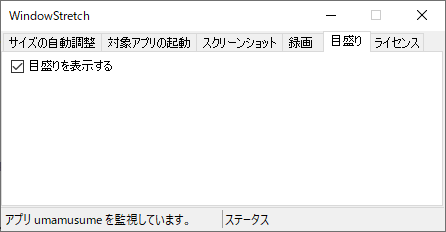
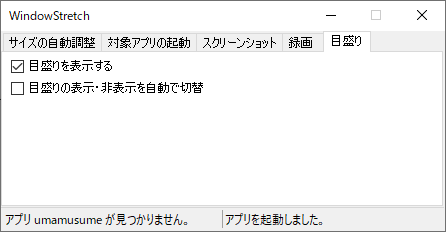
READMEを修正。

diff --git a/README.md b/README.md
@@ -1,10 +1,22 @@
 # WindowStretch
-ゲーム画面のウィンドウサイズを、縦横比を維持しつつ最大化します。現在はDMM版「ウマ娘 プリティーダービー」用。
-プロジェクトサイトは[こちら](https://github.com/seeker3600/WindowStretch)
+ゲーム画面のウィンドウサイズ調整等を行います。現在はDMM版「ウマ娘 プリティーダービー」用。
+
+![size](img/size.png)
+
+## このツールにできること
+
+* ゲーム画面のウィンドウサイズを、縦横比を維持しつつ最大化します。縦長・横長の両方に対応します。
+    * サイズ指定は必要ありません。モニターに対して適切な位置・サイズを自動的に計算します。
+* ツールの起動と同時にゲームを起動できます。
+* ゲーム画面のスクリーンショットを撮影できます。
+    * スクロールする画面の全体を1枚の画像に撮影することもできます。
+* ゲーム画面を録画できます。
+* 育成画面の体力ゲージに目盛りを表示できます。
+	![scale_enabled](img/scale_enabled.png)
 
 ## インストール
 
-[こちら](https://github.com/seeker3600/WindowStretch/releases/latest/download/WindowStretch.zip) から最新版をダウンロードし、zipファイルを解凍してください。
+[こちら](https://github.com/seeker3600/WindowStretch/releases/download/v0.8.0/WindowStretch.zip) から最新版をダウンロードし、zipファイルを解凍してください。
 
 * Windows8.1、または 10 の古いバージョンをご利用の方は、 [.net framework 4.8](https://dotnet.microsoft.com/download/dotnet-framework/thank-you/net48-web-installer) をインストールする必要があります。
 * Windows 10 April 2018 Update (1803) より前のバージョンをご利用の場合、録画機能は使用できません。
@@ -61,20 +73,22 @@
 
 ![scale](img/scale.png)
 
-* チェックを入れると、育成の体力ゲージの位置に目盛りを表示します。
+* 「目盛りを表示する」にチェックを入れると、育成の体力ゲージの位置に目盛りを表示します。
 * ゲームで何をしているかに関係なく「表示するだけ」なので注意してください。
 	![scale_enabled](img/scale_enabled.png)
-
+* 「目盛りの表示・非表示を自動で切替」にチェックを入れると、育成画面以外では目盛りを非表示にします。
+	* アオハル、メイクラにて動作を確認しています。
 
 ## 対応環境
 
-Windows 10 Pro バージョン 2004 (x64) で動作を確認しています。
-それ以外の環境で動く／動かない場合はご連絡ください。
+以下の環境で動作を確認しています。それ以外の環境で動く／動かない場合はご連絡ください。
+
+* Windows 10 Pro バージョン 21H1 (x64) 
+* Windows 11 Home バージョン 21H2 (x64) 
 
 ## TODO
 
 * フルスクリーン時は省電力機能を無効化
-* ゲージ表示の自動化
 * マルチモニター
 * ファン数計測
 * 録画周りの改善
@@ -85,32 +99,7 @@ Windows 10 Pro バージョン 2004 (x64) で動作を確認しています。
 
 ## 連絡
 イシューやプルリク、 @seeker7200 (twitter) へどうぞ。
+プロジェクトサイトは[こちら](https://github.com/seeker3600/WindowStretch)です。
 
 ## ライセンス
 MIT
-
-### 依存ソフトウェア
-
-* .NET Runtime
-    The MIT License (MIT)  Copyright (c) .NET Foundation and Contributors
-    ライセンス全文 - https://github.com/dotnet/runtime/blob/main/LICENSE.TXT
-
-* Microsoft.Windows.CsWin32
-    The MIT License (MIT)  Copyright (c) Microsoft Corporation
-    ライセンス全文 - https://github.com/microsoft/CsWin32/blob/main/LICENSE
-
-    本ツール用の改変を行っています。内容は以下を参照してください。
-    https://github.com/seeker3600/CsWin32
-
-* ReactiveProperty
-    The MIT License (MIT)  Copyright (c) 2018 neuecc, xin9le, okazuki
-    ライセンス全文 - https://github.com/runceel/ReactiveProperty/blob/main/LICENSE.txt
-
-* ScreenRecorderLib
-    MIT License  Copyright (c) 2017 Sverre Skodje
-    ライセンス全文 - https://github.com/sskodje/ScreenRecorderLib/blob/master/LICENSE
-
-* AudioSwitcher
-    Microsoft Public License (Ms-PL) xenolightning
-    ライセンス全文 - https://github.com/xenolightning/AudioSwitcher/blob/master/LICENSE
-    プロジェクトサイト - https://github.com/xenolightning/AudioSwitcher
